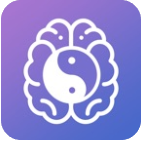
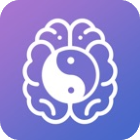
asset updates

diff --git a/src/components/ACTCoach.js b/src/components/ACTCoach.js
@@ -1,8 +1,15 @@
 import React, { Fragment, useState } from 'react'
 import { Col, Row } from 'antd'
-import bannerGraphic from '../assets/images/Banner_graphic.png'
-import therapyGraphic from '../assets/images/Therapy_graphic.png'
-import community from '../assets/images/act-community.png'
+import bannerGraphic from '../assets/images/ACT-splash.png'
+import lessons from '../assets/images/ACT-lessons.png'
+import recordEntries from '../assets/images/ACT-record-diary.png'
+import practiceExercises from '../assets/images/ACT-practicelessons.png'
+import entriesTimeline from '../assets/images/ACT-entriestimeline.png'
+import actMeasures from '../assets/images/ACT-Measures.png'
+import reminders from '../assets/images/DBT-reminder-affirmation.png'
+import shareData from '../assets/images/CBT-sharesetting_iphone.png'
+import engage from '../assets/images/CBT-engage-and-stayuptodate.png'
+import community from '../assets/images/ACT-community.png'
 import appStore from '../assets/images/app-store.png'
 import googlePay from '../assets/images/google-play.png'
 import Carousel from '../shared/carousel'
@@ -33,7 +40,7 @@ const ACTCoach = (props) => {
           <h2 className='bottom-space'><span className='-highlighted-act-secondary-text'>{' '}Optimize</span> your <span className='-highlighted-act-text'>{' '}Inner Potential</span> by <span className='-highlighted-act-secondary-text'>{' '}Acceptance</span> and
           <span className='-highlighted-act-secondary-text'>{' '}Commitment</span>.</h2>
             <div >
-              Learn about Acceptance & Therapy (ACT), Challenge Negative Thoughts, Track moods, emotions, activities etc. Engage better with your Therapist using
+              Learn about Acceptance & Commitment Therapy (ACT) and develop your psychological flexibility. Track your Moods, Emotions, Activities and ACT Measures. Engage better with your Therapist using
               our comprehensive Behavioral Health Platform.
           </div>
           </Col>
@@ -59,8 +66,21 @@ const ACTCoach = (props) => {
           </Col>
         </Row>*/}
         <Row className='card-row'>
+        <Col md={12} className='-margin-right'>
+          <div className='-highlighted-cbt-secondary-text semi-title'>TRACK AND MANAGE WITH</div>
+          <h2 className='bottom-space'>
+            <span className='-highlighted-cbt-text'>Entries </span>{' '}Timeline</h2>
+          <div >
+            Track your progress with intuitive mood charts, different counts, check-in summary and gain insight from correlations.
+          </div>
+        </Col>
+        <Col md={12} className='card-col'>
+          <img className='custom-image' src={entriesTimeline}/>
+        </Col>
+      </Row>
+        <Row className='card-row'>
           <Col md={12} className='-margin-right'>
-            <img className='custom-image' src={therapyGraphic} alt='Therapy' />
+            <img className='custom-image' src={lessons} alt='Therapy' />
           </Col>
           <Col md={12}>
             <div className='-highlighted-act-secondary-text semi-title'>EASY TO FOLLOW</div>
@@ -85,12 +105,12 @@ const ACTCoach = (props) => {
             </div>
           </Col>
           <Col md={12} className='card-col'>
-            <img className='custom-image' src={therapyGraphic} />
+            <img className='custom-image' src={recordEntries} />
           </Col>
         </Row>
         <Row className='card-row'>
           <Col md={12} className='-margin-right'>
-            <img className='custom-image' src={therapyGraphic} alt='Therapy' />
+            <img className='custom-image' src={practiceExercises} alt='Therapy' />
           </Col>
           <Col md={12}>
             <div className='-highlighted-act-secondary-text semi-title'>EASY TO FOLLOW</div>
@@ -115,12 +135,12 @@ const ACTCoach = (props) => {
             </div>
           </Col>
           <Col md={12} className='card-col'>
-            <img className='custom-image' src={therapyGraphic} />
+            <img className='custom-image' src={actMeasures} />
           </Col>
         </Row>
         <Row className='card-row'>
           <Col md={12} className='-margin-right'>
-            <img className='custom-image' src={therapyGraphic} alt='Therapy' />
+            <img className='custom-image' src={shareData} alt='Therapy' />
           </Col>
           <Col md={12}>
             <div className='-highlighted-act-secondary-text semi-title'>EASY TO</div>
@@ -145,12 +165,12 @@ const ACTCoach = (props) => {
             </div>
           </Col>
           <Col md={12} className='card-col'>
-            <img className='custom-image' src={therapyGraphic} />
+            <img className='custom-image' src={reminders} />
           </Col>
         </Row>
         <Row className='card-row'>
           <Col md={12} className='-margin-right'>
-            <img className='custom-image' src={therapyGraphic} alt='Therapy' />
+            <img className='custom-image' src={engage} alt='Therapy' />
           </Col>
           <Col md={12}>
             <div className='-highlighted-act-secondary-text semi-title'>EVEN MORE FEATURES</div>
@@ -204,7 +224,7 @@ const ACTCoach = (props) => {
             <div style={{ textAlign: 'center' }}>
               <h2 className='bottom-space'>
                 <span className='-highlighted-act-secondary-text'>{' '}Testimonials</span>{' '}about<span className='-highlighted-act-text'>{' '}ACT Coach</span> </h2>
-              Over 40,000 users have already benefited from ACT Coach.
+
             </div>
           </Row>
         </Col>

diff --git a/src/components/CBTCompanion.js b/src/components/CBTCompanion.js
@@ -2,9 +2,9 @@ import React, { Fragment, useState } from 'react'
 import { Col, Row } from 'antd'
 import bannerGraphic from '../assets/images/CBT-splash.png'
 import lessons from '../assets/images/CBT-lessons.png'
-import recordEntries from '../assets/images/DBT-record-diary.png'
-import practiceExercises from '../assets/images/DBT-practice_exercises.png'
-import entriesTimeline from '../assets/images/CBT-entries-timeline.png'
+import recordEntries from '../assets/images/CBT-record-diary.png'
+import practiceExercises from '../assets/images/CBT-Practice-exercises.png'
+import entriesTimeline from '../assets/images/CBT-entriestimeline.png'
 import reminders from '../assets/images/DBT-reminder-affirmation.png'
 import shareData from '../assets/images/CBT-sharesetting_iphone.png'
 import engage from '../assets/images/CBT-engage-and-stayuptodate.png'
@@ -209,7 +209,6 @@ const CBTCompanion = (props) => {
             <div style={{ textAlign: 'center' }}>
               <h2 className='bottom-space'>
                 <span className='-highlighted-cbt-secondary-text'>{' '}Testimonials</span>{' '}about<span className='-highlighted-cbt-text'>{' '}CBT Companion</span> </h2>
-              Over 50,000 users have already benefited from CBT Companion.
             </div>
           </Row>
         </Col>

diff --git a/src/components/Banner.js b/src/components/Banner.js
@@ -1,23 +1,6 @@
 import React, { Fragment, useState } from 'react'
 import { Col, Row } from 'antd'
 import bannerGraphic from '../assets/images/Banner_graphic.png'
-import therapyGraphic from '../assets/images/Therapy_graphic.png'
-import Carousel from '../shared/carousel'
-import appStore from '../assets/images/app-store.png'
-import googlePay from '../assets/images/google-play.png'
-import DBTCoach from '../assets/images/DBT_coach.png'
-import ACTCoach from '../assets/images/ACT_coach.png'
-import CBTCompanion from '../assets/images/CBT_companion.png'
-import DBTCoachScreen from '../assets/images/DBT_coach_screen.png'
-import ACTCoachScreen from '../assets/images/ACT_coach_screen.png'
-import CBTCompanionScreen from '../assets/images/CBT_companion_screen.png'
-import engagementTools from '../assets/images/Engagement_tools_img.png'
-import rightProvider from '../assets/images/Right_provider_graphic.png'
-import blogImg from '../assets/images/Blog_img01.png'
-import blogImg2 from '../assets/images/Blog_img02.png'
-import blogImg3 from '../assets/images/Blog_img03.png'
-import evidenceGraphic from '../assets/images/Evidence_based_graphic.png'
-import { home } from '../helper/helper'
 
 const Banner = (props) => {
   return (

diff --git a/src/pages/Home.js b/src/pages/Home.js
@@ -5,7 +5,7 @@ import Carousel from '../shared/carousel'
 import appStore from '../assets/images/app-store.png'
 import googlePay from '../assets/images/google-play.png'
 import DBTCoach from '../assets/images/DBT-app-icon.png'
-import ACTCoach from '../assets/images/ACT-coach-app-icon.png'
+import ACTCoach from '../assets/images/ACT-app-icon.png'
 import CBTCompanion from '../assets/images/CBT_app_icon.png'
 import DBTCoachScreen from '../assets/images/DBT_coach_screen.png'
 import ACTCoachScreen from '../assets/images/ACT_coach_screen.png'

diff --git a/src/components/DBTCoach.js b/src/components/DBTCoach.js
@@ -41,7 +41,8 @@ const Banner = (props) => {
               <span className='-highlighted-text'>{' '}Dialectical Behavior Therapy</span> (DBT).</h2>
             <div >
               Learn, practice and track your DBT skills
-              with the best DBT app.
+              with DBT Coach App. Engage better with your Therapist using
+              our comprehensive Behavioral Health Platform.
             </div>
           </Col>
           <Col md={8} className='card-col'>
